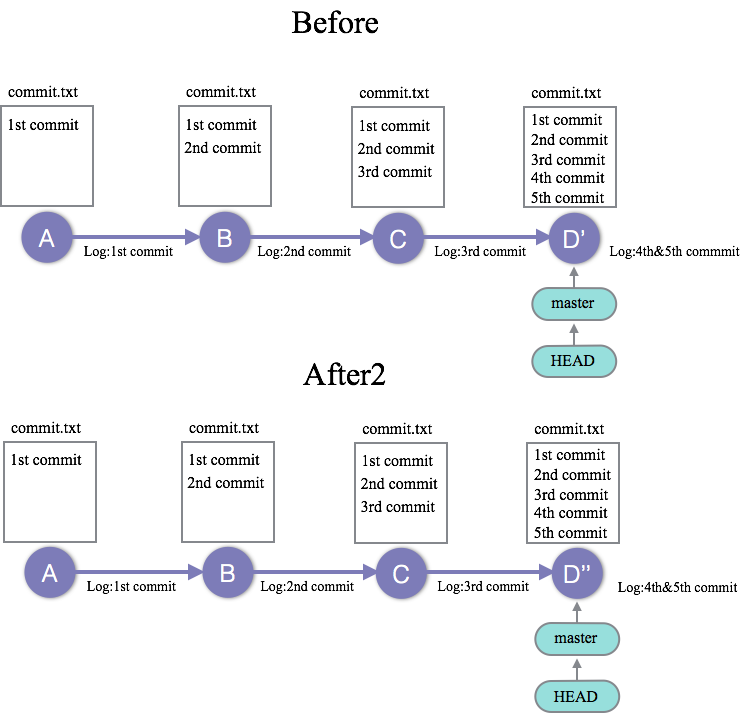
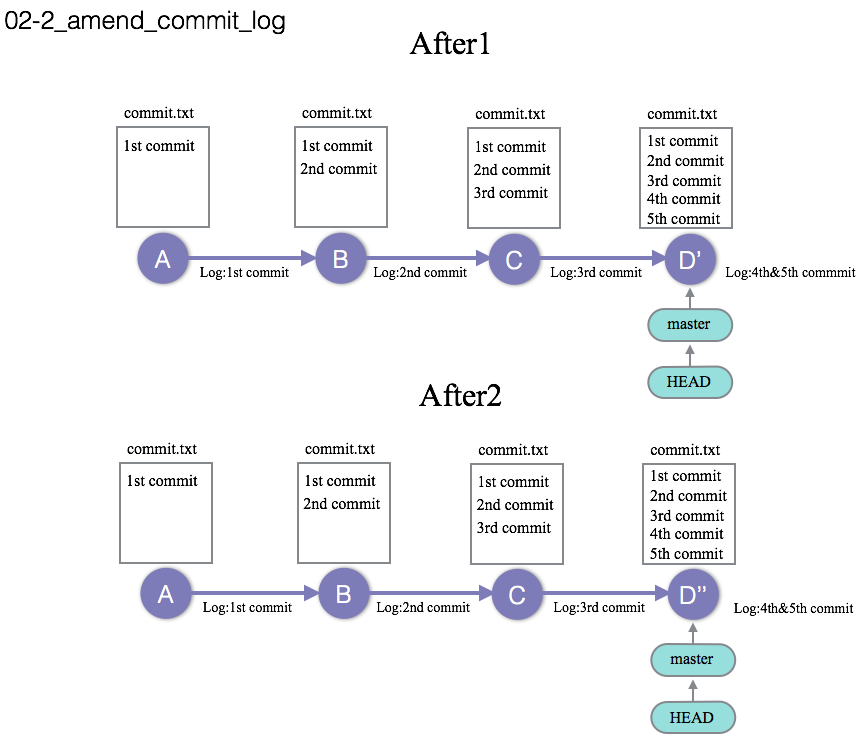
Add quiz "03_clean_up_commit"

diff --git a/03_clean_up_commit_answer.md b/03_clean_up_commit_answer.md
@@ -1,0 +1,101 @@
+03_clean_up_commit : 過去のコミットをまとめて修正する、綺麗にまとめる
+========
+
+### 問題3-1
+--------------------
+今、03_clean_up_commitのgitレポジトリはBeforeの状態である。  
+しかし、commit.txtの文字列は本来`XX line`にする予定だったが、誤って`XX commit`にしていることに後日気がついた。
+03_clean_up_commitのgitレポジトリをAfter1の状態にして、当初の予定通りの文字列をcommit.txtに記載せよ。
+
+### <a name="ans3-1">問題3−1 解答</a>
+--------------------
+```
+➤  git rebase -i --root
+        
+＃(1st commit -> 1st lineに変更)
+➤  vim commit.txt 
+➤  git add commit.txt
+➤  git commit --amend
+➤  git rebase --continue
+
+＃(2nd commit -> 2nd lineに変更&conflictの解消)
+➤  vim commit.txt 
+➤  git add commit.txt
+➤  git rebase --continue
+
+＃(3rd commit -> 3rd lineに変更&conflictの解消)
+➤  vim commit.txt
+➤  git add commit.txt
+➤  git rebase --continue
+
+＃(4,5th commit ->  4,5lineに変更&conflictの解消)
+➤  vim commit.txt
+➤  git add commit.txt
+➤  git rebase --continue
+
+➤  git log --oneline
+d4e70a9 4&5th commit
+f0be864 3rd commit
+f20659e 2nd commit
+7714ceb 1st commit
+
+＃rebaseの結果確認
+➤  cat commit.txt
+1st line
+2nd line
+3rd line
+4th line
+5th line
+```
+
+### 問題3-2
+--------------------
+無事修正が終わったと思いきや、コミットログコメントにtypeがあった。  
+このままだと格好が悪いので、`4&5th commmit` を`4&5th commit`に修正したい。
+02_amend_commit_logのgitレポジトリをAfter1からAfter2の状態に修正せよ。
+
+
+### <a name="ans3-2">問題3−2 解答</a>
+--------------------
+```
+＃綺麗にまとめる前のコミットログの確認
+➤  git log --oneline
+d4e70a9 4&5th commit
+f0be864 3rd commit
+f20659e 2nd commit
+7714ceb 1st commit
+
+＃HEADの位置の確認
+➤  git graph
+* d4e70a9  (HEAD, master) 2014-11-03 Takayuki WATANABE 4&5th commit
+* f0be864  2014-11-03 Takayuki WATANABE 3rd commit
+* f20659e  2014-11-03 Takayuki WATANABE 2nd commit
+* 7714ceb  2014-11-03 Takayuki WATANABE 1st commit
+
+➤  git rebase -i HEAD~~~
+＃rebaseの内容
+pick f20659e 2nd commit
+s f0be864 3rd commit
+s d4e70a9 4&5th commit
+
+＃コミットがまとまっているか確認
+➤  git log --oneline
+9c7ae76 2nd&3rd&4&5th commit
+7714ceb 1st commit
+
+＃rebase結果の確認
+➤  cat commit.txt
+1st line
+2nd line
+3rd line
+4th line
+5th line
+
+```
+
+### Link
+--------------------
+ * Previous: [02_amend_commit_log : 直近のコミット、コミットログを修正する問題](02_amend_commit_log.md)
+ * Next: 
+ * 目次: [README](README.md)
+ 

diff --git a/03_clean_up_commit.md b/03_clean_up_commit.md
@@ -1,0 +1,31 @@
+03_clean_up_commit : 過去のコミットをまとめて修正する、綺麗にまとめる
+========
+
+### 問題3-1
+--------------------
+今、03_clean_up_commitのgitレポジトリはBeforeの状態である。  
+しかし、commit.txtの文字列は本来`XX line`にする予定だったが、誤って`XX commit`にしていることに後日気がついた。
+03_clean_up_commitのgitレポジトリをAfter1の状態にして、当初の予定通りの文字列をcommit.txtに記載せよ。
+
+![quiz03-1](images/03-1_clean_up_commit.png)
+
+### 問題3-2
+--------------------
+無事修正が終わったと思いきや、コミットログコメントにtypeがあった。  
+このままだと格好が悪いので、`4&5th commmit` を`4&5th commit`に修正したい。
+02_amend_commit_logのgitレポジトリをAfter1からAfter2の状態に修正せよ。
+
+![quiz03-2](images/03-2_clean_up_commit.png)
+
+### 解答
+--------------------
+
+[問題3−1の解答](03_clean_up_commit_answer.md#ans3-1)  
+[問題3−2の解答](03_clean_up_commit_answer.md#ans3-2)  
+
+### Link
+--------------------
+ * Previous: [02_amend_commit_log : 直近のコミット、コミットログを修正する問題](02_amend_commit_log.md)
+ * Next: 
+ * 目次: [README](README.md)
+ 

diff --git a/02_amend_commit_log.md b/02_amend_commit_log.md
@@ -1,4 +1,4 @@
-02_amend_commit_log
+02_amend_commit_log : 直近のコミット、コミットログを修正する
 ========
 
 ### 問題2-1
@@ -25,12 +25,12 @@ commit.txtに5th commitの文字列を追加し、直近のコミットに変更
 ### 解答
 --------------------
 
-[問題2−1の解答](02_amend_commit_log_answer.md#ans3)  
+[問題2−1の解答](02_amend_commit_log_answer.md#ans2-1)  
 [問題2−2の解答](02_amend_commit_log_answer.md#ans2-2)  
 
 ### Link
 --------------------
  * Previous: [01_commit_3x : コミットを3回実施する問題](01_commit_3x.md)  
- * Next: [03_cleanup_history : 過去のコミットをまとめて修正する、綺麗にまとめる](03_cleanup_history.md)
+ * Next: [03_clean_up_commit : 過去のコミットをまとめて修正する、綺麗にまとめる](03_clean_up_commit.md)
  * 目次: [README](README.md)
  

diff --git a/README.md b/README.md
@@ -17,8 +17,9 @@ $ git submodule update
 ### 初級 : 基本のコマンドを学ぶ
 ----------------------
 #### ローカルレポジトリの操作
- * [01_commit_3x : コミットを3回実施する問題](01_commit_3x.md)  
- * [02_amend_commit_log : 直近のコミット、コミットログを修正する問題](02_amend_commit_log.md)
+ * [01_commit_3x : コミットを3回実施する](01_commit_3x.md)  
+ * [02_amend_commit_log : 直近のコミット、コミットログを修正する](02_amend_commit_log.md)
+ * [03_clean_up_commit : 過去のコミットをまとめて修正する、綺麗にまとめる](03_clean_up_commit.md)
  
 
 

diff --git a/02_amend_commit_log_answer.md b/02_amend_commit_log_answer.md
@@ -36,3 +36,10 @@ commit.txtに5th commitの文字列を追加し、直近のコミットに変更
  Date: Mon Nov 3 10:19:17 2014 +0900
  1 file changed, 2 insertions(+)
 ```
+
+### Link
+--------------------
+ * Previous: [01_commit_3x : コミットを3回実施する問題](01_commit_3x.md)  
+ * Next: [03_clean_up_commit : 過去のコミットをまとめて修正する、綺麗にまとめる](03_clean_up_commit.md)
+ * 目次: [README](README.md)
+ 

diff --git a/01_commit_3x.md b/01_commit_3x.md
@@ -1,4 +1,4 @@
-01_commit_3x
+01_commit_3x : コミットを3回実施する問題
 ========
 
 ### 問題
